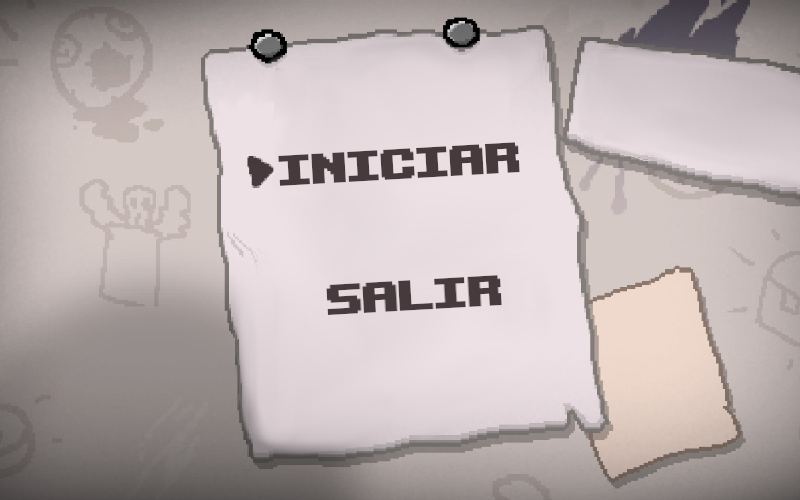
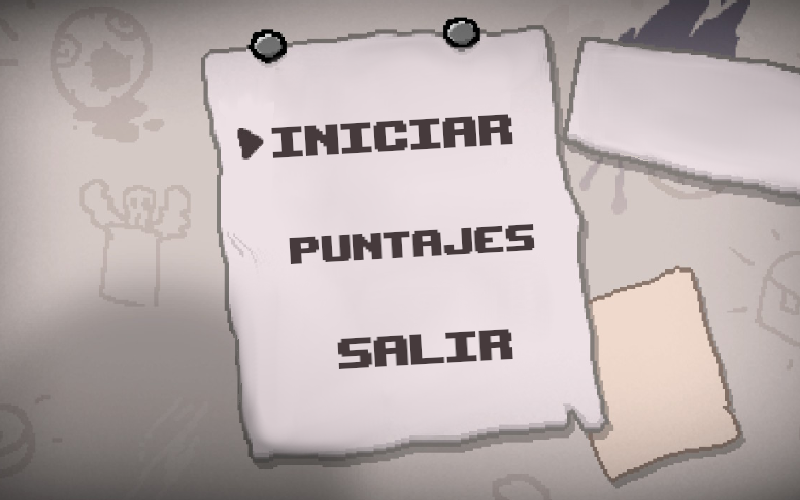
ActualizacionMenu

Changed region(s): [[0.2812, 0.21, 0.6562, 0.39], [0.3438, 0.45, 0.6875, 0.63], [0.4062, 0.66, 0.6562, 0.75]]

diff --git a/ProyectoTBOI/src/Menu.java b/ProyectoTBOI/src/Menu.java
@@ -10,6 +10,7 @@ public class Menu extends JPanel {
     private JLabel carga ;
     private ImageIcon imagen1 ;
     private ImageIcon imagen2;
+    private ImageIcon imagen3;
     
     public Menu (String ruta) {
         //Propiedades del panel
@@ -24,34 +25,43 @@ public class Menu extends JPanel {
 
 		ImageIcon imagen  = new ImageIcon(ruta+"menu1.png");
         ImageIcon imagenDos = new ImageIcon(ruta+"menu2.png");
-		
-        Image imagenGif = imagen.getImage();
+        ImageIcon imagenTres = new ImageIcon(ruta+"menu3.png");
 		
 		// Redimensionar la imagen
+        Image imagenGif = imagen.getImage();
 		Image imagenRedimensionada = imagenGif.getScaledInstance(1080, 690, Image.SCALE_DEFAULT);
 		 imagen1 = new ImageIcon(imagenRedimensionada);
 		 carga = new JLabel(imagen1);
 
-         imagenGif = imagenDos.getImage();
-		
          // Redimensionar la imagen
+         imagenGif = imagenDos.getImage();
          imagenRedimensionada = imagenGif.getScaledInstance(1080, 690, Image.SCALE_DEFAULT);
           imagen2 = new ImageIcon(imagenRedimensionada);
+
+          imagenGif = imagenTres.getImage();
+         imagenRedimensionada = imagenGif.getScaledInstance(1080, 690, Image.SCALE_DEFAULT);
+          imagen3 = new ImageIcon(imagenRedimensionada);
        
 
         //carga  = new JLabel(imagen);
 		fondo.add(carga);
     }
 
-    public void setMenu1(){ //W
+    public void setMenu1(){ 
     	carga.setIcon(imagen1);
         revalidate();
         repaint();
         
     }
-    public void setMenu2(){ // S
+    public void setMenu2(){ 
   
     	carga.setIcon(imagen2);
+        revalidate();
+        repaint();
+    }
+    public void setMenu3(){ 
+  
+    	carga.setIcon(imagen3);
         revalidate();
         repaint();
     }

diff --git a/ProyectoTBOI/src/Ventana.java b/ProyectoTBOI/src/Ventana.java
@@ -84,14 +84,27 @@ public class Ventana extends JFrame{
 				
 				System.out.println(keyCode);
 				if(keyCode == KeyEvent.VK_W || keyCode == KeyEvent.VK_UP){
-					menu.setMenu1();
-					opcion = 1;
+					
+					if(opcion>1){
+						opcion --;
+					}
 					actualizar();
 				}
 				if(keyCode == KeyEvent.VK_S || keyCode == KeyEvent.VK_DOWN){
-					menu.setMenu2();
-					opcion = 2;
+					
+					if(opcion<3){
+						opcion ++;
+					}
 					actualizar();
+				}
+				if(opcion==1){
+					menu.setMenu1();
+				}
+				if(opcion==2){
+					menu.setMenu2();
+				}
+				if(opcion==3){
+					menu.setMenu3();
 				}
 				if (keyCode == 10 || keyCode == 32) { // Realizar algo cuando se presiona la tecla enter
 					if(opcion == 1) {
@@ -102,7 +115,7 @@ public class Ventana extends JFrame{
 						keysJuego();
 		                actualizar();
 					}
-					if(opcion == 2) {
+					if(opcion == 3) {
 						System.exit(0);
 					}
 					//remove(inicio);
